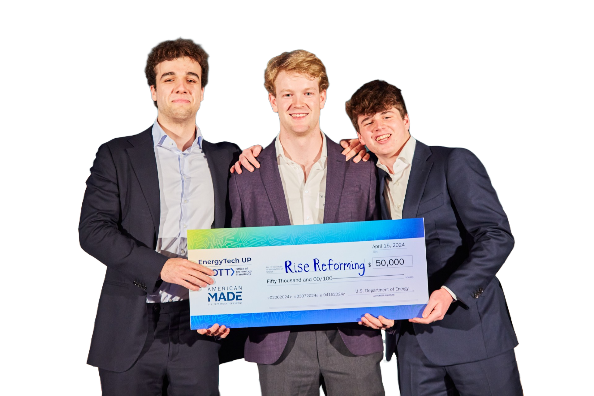
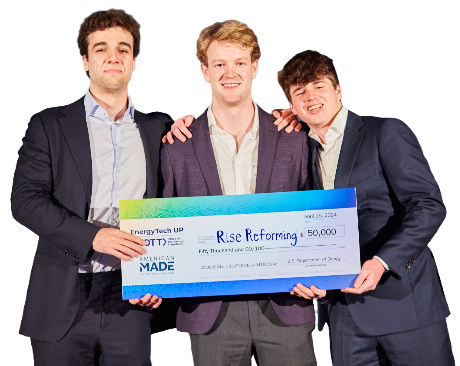
new homepage base

diff --git a/style2.css b/style2.css
@@ -3,7 +3,7 @@
 body {
     margin: 0;
     width: 100%;
-    background-color: #638566;
+    background-color: whitesmoke;
     overflow-x: hidden;
     font-family: 'Roboto', sans-serif;
 }
@@ -124,4 +124,53 @@ footer a p {
     height: 80px;
     transition: all 0.5s ease;
     margin-left:15px;
+}
+
+#home-title {
+    padding-top:100px;
+    
+    display: flex;
+    align-items: center; 
+    justify-content: center; 
+}
+
+#home-title p {
+    font-size: 50px;
+    text-align: center;
+}
+
+#home-front div{
+    display: flex;
+    align-items: center; 
+    justify-content: center; 
+}
+
+#home-front hr {
+    flex-grow: 1; 
+    border: none;
+    border-top: 2px solid #000; 
+    margin: 0; 
+}
+
+#hr-L {
+    position: relative; 
+    z-index: 1000; 
+    margin-right:-40px;
+}
+
+#hr-R {
+    position: relative; 
+    z-index: 1000; 
+    margin-left:-40px;
+}
+
+#home-team-image {
+    padding-top:10px;
+    width:50vw;
+}
+
+#home-image-bottom {
+    margin:0;
+    border-top: 5px solid #000;
+    padding-bottom:20px;
 }

diff --git a/index2.html b/index2.html
@@ -22,9 +22,18 @@
         </nav>
     </header>
 
-    <section style="height:1000px;">
-        <p>placeholder</p>
+    <section id="home-title">
+        <p>Today's Waste is Tomorrow's Value</p>
     </section>
+
+    <section id="home-front">
+        <div>
+            <hr id="hr-L">
+            <img src="images/riseim2.png" alt="Team Image" id="home-team-image">
+            <hr id="hr-R">
+        </div>
+    </section>
+    <hr id="home-image-bottom">
 
     <footer>
         <div class="footer-logo">
